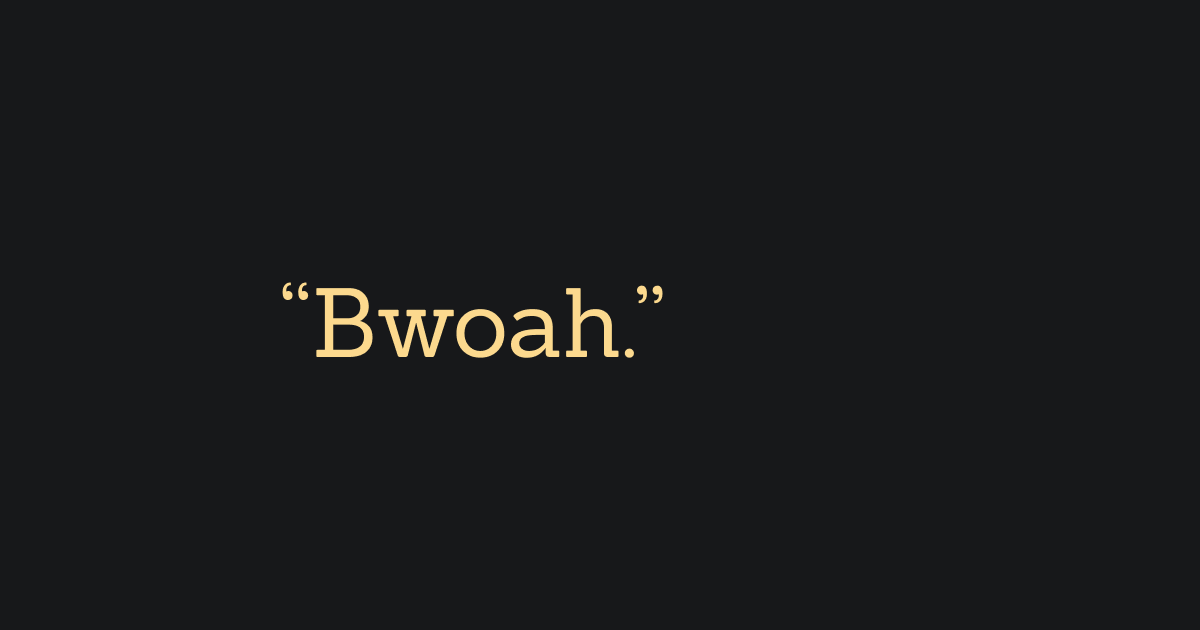
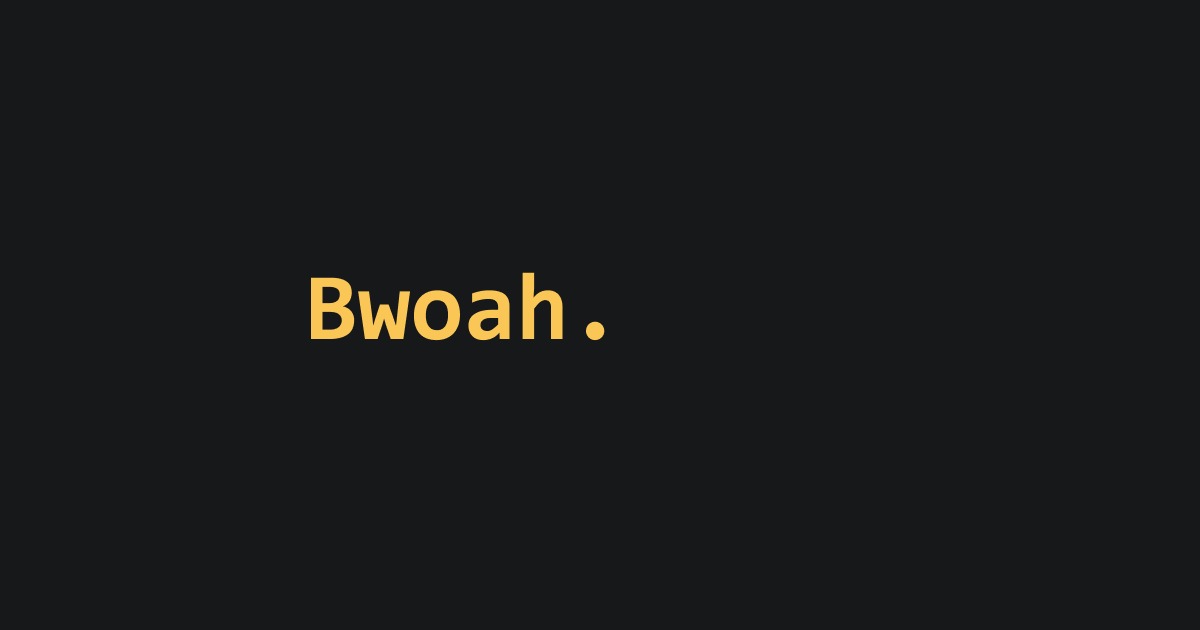
implement tweet button functionality

Changed region(s): [[0.2158, 0.4222, 0.5242, 0.573], [0.5242, 0.4524, 0.555, 0.4825]]

diff --git a/client/stylesheet/styles.css b/client/stylesheet/styles.css
@@ -1,1 +1,1 @@
-@font-face{font-family:"Inter";src:url("../fonts/Inter-VariableFont_slnt,wght.ttf") format("TrueType");font-display:swap}@font-face{font-family:"Consola";src:url("../fonts/consola.woff2") format("woff2"),url("../fonts/consola.woff") format("woff");font-display:swap}body{max-width:720px;overflow-x:hidden;margin:0 auto;padding:24px 32px;font-family:"Inter",sans-serif;font-size:16px;background-color:#17181a;color:#fff}code{display:flex;padding:16px 18px;border-radius:4px;background-color:#31363f;font-family:monospace}footer{display:flex;flex-direction:column;align-content:space-around;margin-top:120px;padding:0 4px;padding-bottom:16px;font-size:14px}p{font-weight:300;font-variation-settings:"wght" 300}a,a:visited{color:#fcd98e;text-decoration:none}a:hover,a:visited:hover{text-decoration:underline}#title{margin-bottom:0;font-size:32px;font-weight:700;font-variation-settings:"wght" 700}#blurb{margin-top:8px;color:#abb2bf;font-size:16px;font-weight:400;font-variation-settings:"wght" 400}#quoteSection{margin:84px auto;padding:0 4px}#sampleQuote{font-family:"Consola",monospace;color:#fcd98e;font-size:20px;line-height:1.35em}#quoteResetBtn{height:auto;width:auto;padding:12px 20px;border-radius:200px;border-style:none;text-align:center;cursor:pointer;transition:background-color .4s ease;font-family:"Inter",sans-serif;font-size:16px;font-weight:600;font-variation-settings:"wght" 600;margin-right:18px;background-color:#fcd98e;color:#17181a}#quoteResetBtn:hover{background-color:#f4e5b5}#tweetBtn{height:auto;width:auto;padding:12px 20px;border-radius:200px;border-style:none;text-align:center;cursor:pointer;transition:background-color .4s ease;font-family:"Inter",sans-serif;font-size:16px;font-weight:500;font-variation-settings:"wght" 500;background-color:#1d9bf0;color:#fff}#tweetBtn:hover{background-color:#54b3f4}.twitter-share-button{color:inherit !important;text-decoration:none}.twitter-share-button:hover{text-decoration:none}.btnContainer{display:flex;flex-direction:row;margin-top:40px}.docSection{margin-top:100px}.codeSection{margin-top:36px}.codeSnippet{margin-bottom:20px}.heading{font-weight:600;font-variation-settings:"wght" 600}.subHeading{color:#abb2bf;font-size:20px;font-weight:600;font-variation-settings:"wght" 600}/*# sourceMappingURL=styles.css.map */
+@font-face{font-family:"Inter";src:url("../fonts/Inter-VariableFont_slnt,wght.ttf") format("TrueType");font-display:swap}@font-face{font-family:"Consola";src:url("../fonts/consola.woff2") format("woff2"),url("../fonts/consola.woff") format("woff");font-display:swap}body{max-width:720px;overflow-x:hidden;margin:0 auto;padding:24px 32px;font-family:"Inter",sans-serif;font-size:16px;background-color:#17181a;color:#fff}code{display:flex;padding:16px 18px;border-radius:4px;background-color:#31363f;font-family:monospace}footer{display:flex;flex-direction:column;align-content:space-around;margin-top:120px;padding:0 4px;padding-bottom:16px;font-size:14px}p{font-weight:300;font-variation-settings:"wght" 300}a,a:visited{color:#fac655;text-decoration:none}a:hover,a:visited:hover{text-decoration:underline}#title{margin-bottom:0;font-size:32px;font-weight:700;font-variation-settings:"wght" 700}#blurb{margin-top:8px;color:#abb2bf;font-size:16px;font-weight:400;font-variation-settings:"wght" 400}#quoteSection{margin:84px auto;padding:0 4px}#sampleQuote{font-family:"Consola",monospace;color:#fac655;font-size:20px;line-height:1.35em}#quoteResetBtn{height:auto;width:auto;padding:12px 20px;border-radius:200px;border-style:none;text-align:center;cursor:pointer;transition:background-color .15s ease;font-family:"Inter",sans-serif;font-size:16px;font-weight:600;font-variation-settings:"wght" 600;margin-right:18px;background-color:#fac655;color:#17181a}#quoteResetBtn:hover{background-color:#fce0a1}#tweetBtn{height:auto;width:auto;padding:12px 20px;border-radius:200px;border-style:none;text-align:center;cursor:pointer;transition:background-color .15s ease;font-family:"Inter",sans-serif;font-size:16px;font-weight:600;font-variation-settings:"wght" 600;background-color:#1d9bf0;color:#fff}#tweetBtn:hover{background-color:#0869bd}.twitter-share-button{color:inherit !important;text-decoration:none}.twitter-share-button:hover{text-decoration:none}.btnContainer{display:flex;flex-direction:row;margin-top:40px}.docSection{margin-top:100px}.codeSection{margin-top:36px}.codeSnippet{margin-bottom:20px}.heading{font-weight:600;font-variation-settings:"wght" 600}.subHeading{color:#abb2bf;font-size:20px;font-weight:600;font-variation-settings:"wght" 600}/*# sourceMappingURL=styles.css.map */

diff --git a/client/stylesheet/styles.scss b/client/stylesheet/styles.scss
@@ -3,10 +3,10 @@ $background-color: #17181A;
 $code-background-color: #31363F;
 $heading-font-color: #FFFFFF;
 $subheading-font-color: #ABB2BF;
-$highlight-font-color: #FCD98E;
-$btn-hover-color: #F4E5B5;
+$highlight-font-color: #FAC655;
+$btn-hover-color: #FCE0A1;
 $tweet-btn-color: #1D9BF0;
-$tweet-btn-hover-color: #54B3F4;
+$tweet-btn-hover-color: #0869BD;
 
 // fonts
 $body-font: 'Inter', sans-serif;
@@ -57,11 +57,6 @@ $code-font: monospace;
 @mixin font-weight-semibold {
     font-weight: 600;
     font-variation-settings: 'wght' 600;
-}
-
-@mixin font-weight-medium {
-    font-weight: 500;
-    font-variation-settings: 'wght' 500;
 }
 
 @mixin font-weight-normal {
@@ -160,7 +155,7 @@ a:visited {
     border-style: none;
     text-align: center;
     cursor: pointer;
-    transition: background-color 0.4s ease;
+    transition: background-color 0.15s ease;
     font-family: $body-font;
 }
 
@@ -180,7 +175,7 @@ a:visited {
 #tweetBtn {
     @include btn-styling;
     @include font-size-small;
-    @include font-weight-medium;
+    @include font-weight-semibold;
     background-color: $tweet-btn-color;
     color: $heading-font-color;
 

diff --git a/client/displayData.js b/client/displayData.js
@@ -1,6 +1,7 @@
 // document selectors
 const sampleQuote = document.getElementById('sampleQuote');
 const quoteResetBtn = document.getElementById('quoteResetBtn');
+const tweetBtn = document.getElementById('tweetBtn');
 const indexRange = document.getElementById('indexRange');
 
 
@@ -10,6 +11,7 @@ window.onload = () => {
     renderQuoteIndexRange();
 }
 quoteResetBtn.addEventListener('click', renderSampleQuote);
+tweetBtn.addEventListener('click', tweetQuote);
 
 
 // fetch functions
@@ -26,4 +28,14 @@ async function renderQuoteIndexRange() {
     const quoteData = await response.json();
 
     indexRange.innerText = ` (any value from 0 to ${quoteData.length - 1})`;
+}
+
+// tweet function
+// template contains 76 non-quote characters
+function tweetQuote() {
+    const encodedQuote = encodeURIComponent(sampleQuote.innerText);
+    const siteLink = `https://${window.location.host}`;
+    const hashtags = `Bwoah,KimiRaikkonen,F1`;
+
+    window.open(`https://twitter.com/intent/tweet?text=${encodedQuote}%0A%0A${siteLink}%0A%0A&hashtags=${hashtags}`);
 }

diff --git a/client/index.html b/client/index.html
@@ -44,10 +44,7 @@
                     <button
                     id='tweetBtn'
                     aria-label='tweet'>
-                        <a class="twitter-share-button"
-                        href="https://twitter.com/intent/tweet">
-                            Tweet
-                        </button>
+                        Tweet
                 </div>
             </div>
             <div class='docSection'>

diff --git a/src/quotes.js b/src/quotes.js
@@ -1,5 +1,7 @@
 'use strict';
 
+// quotes can have a maximum of 202 characters (excluding quotation marks)
+
 module.exports = [
     {
         "quote": "Yeah, I was having a shit.",
